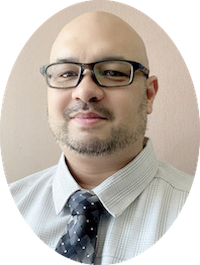
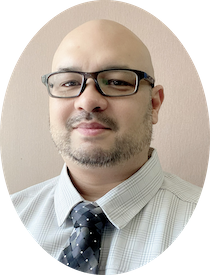
started about and added images

diff --git a/src/container/About/About.jsx b/src/container/About/About.jsx
@@ -1,10 +1,45 @@
-import React from 'react'
+import React, { useState, useEffect } from 'react'
+import { motion } from 'framer-motion';
+
+import { images } from '../../constants';
 
 import './About.scss';
 
+const abouts = [
+  { title: 'Shopify Full Service Support and Creation', description: '-Build custom Shopify store designs and development from the ground up', imgUrl: images.about01 },
+  { title: 'Shopify Theme Customization', description: 'Grow your business and connect with billions of users by showing your unique business look', imgUrl: images.about02 },
+  { title: 'Store Migration', description: 'Moving from another platform? No worries! Migrate all products, customers, orders, and blogs, securely and accurately while preserving your SEO', imgUrl: images.about03},
+  { title: 'Web Development', description: 'Landing pages | Full site creation', imgUrl: images.about04},
+];
+
 const About = () => {
   return (
-    <div>About</div>
+    <>
+      <h2 className='head-text'>
+        I know that
+        <span>Great Communication</span>
+        <br />
+        means
+        <span>Business Solutions!</span>
+      </h2>
+
+      <div className='app__profiles'>
+        {abouts.map((about, index) => (
+          <motion.div
+            whileInView={{ opacity: 1 }}
+            whileHover={{ scale: 1.1 }}
+            transition={{ duration: 0.5, type: 'tween' }}
+            className='app__profile-item'
+            key={about.title + index}
+          >
+            <img src={about.imgUrl} alt={about.title} />
+            <h2 className='bold-text' style={{ marginTop: 20 }}>{about.title}</h2>
+            <p className='p-text' style={{ marginTop: 10 }}>{about.description}</p>
+          </motion.div>
+        ))}
+      </div>
+
+    </>
   )
 }
 

diff --git a/src/container/Header/Header.scss b/src/container/Header/Header.scss
@@ -77,7 +77,7 @@
     p {
       width: 100%;
       text-transform: uppercase;
-      text-align: right;
+      text-align: left;
     }
   }
 
@@ -118,7 +118,7 @@
     }
   }
 
-  // circles with different height & width
+  // skill circles with different height & width
 
   div:nth-child(1) {
     width: 100px;
@@ -132,8 +132,8 @@
   }
 
   div:nth-child(3) {
-    width: 70px;
-    height: 70px;
+    width: 85px;
+    height: 85px;
   }
 
   @media screen and (min-width: 2000px) {
@@ -175,7 +175,7 @@
   position: relative;
 
   img {
-    width: 100%;
+    width: 90%;
     object-fit: contain;
     z-index: 1;
   }
